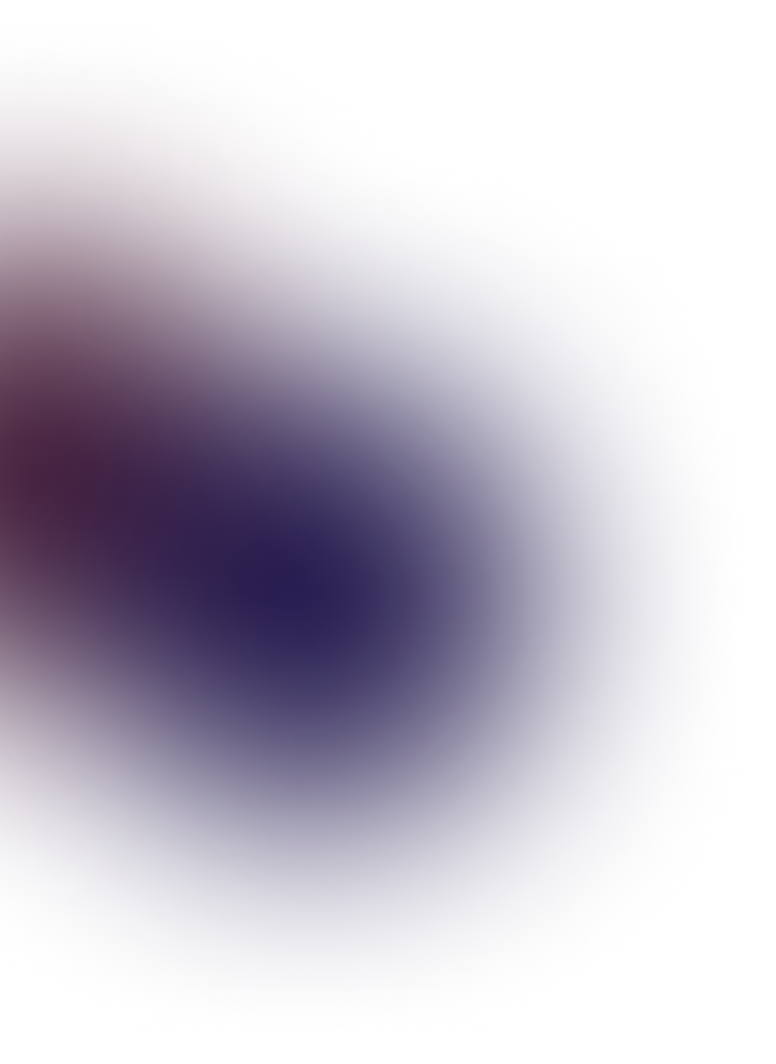
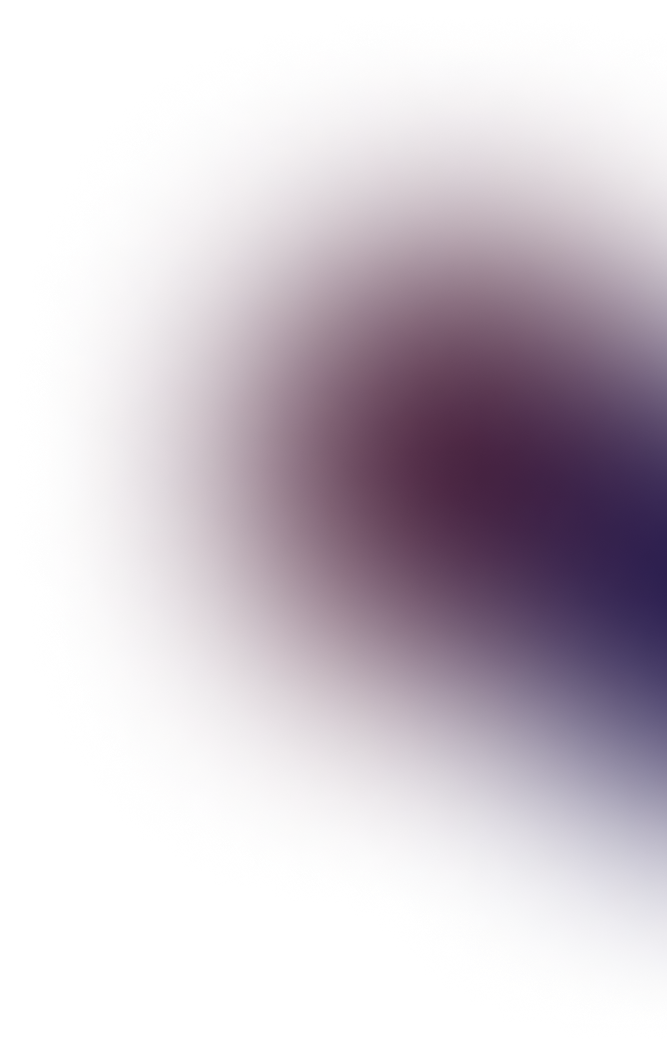
added footer and minor UI changes

diff --git a/src/components/NavBar.js b/src/components/NavBar.js
@@ -4,7 +4,19 @@ import logo from '../assets/img/logo.png';
 import navIcon1 from '../assets/img/nav-icon1.svg';
 import navIcon2 from '../assets/img/nav-icon2.svg';
 import navIcon3 from '../assets/img/nav-icon3.svg';
+import resumePDF from '../assets/Yash-Waikar-Resume.pdf';
 
+const DrawOutlineButton = ({ children, className, ...rest }) => {
+  return (
+    <button {...rest} className={`draw-outline-button ${className}`}>
+      <span>{children}</span>
+      <span className="outline top"></span>
+      <span className="outline right"></span>
+      <span className="outline bottom"></span>
+      <span className="outline left"></span>
+    </button>
+  );
+};
 export const NavBar = () => {
   const [activeLink, setActiveLink] = useState('home');
   const [scrolled, setScrolled] = useState(false);
@@ -18,10 +30,7 @@ export const NavBar = () => {
       }
     };
 
-    // Add the scroll event listener properly
     window.addEventListener("scroll", onScroll);
-
-    // Clean up event listener on component unmount
     return () => window.removeEventListener("scroll", onScroll);
   }, []);
 
@@ -42,53 +51,56 @@ export const NavBar = () => {
 
         <Navbar.Collapse id="basic-navbar-nav">
           <Nav className="me-auto">
+
+            
             <Nav.Link
               href="#home"
               className={activeLink === 'home' ? 'active navbar-link' : 'navbar-link'}
-              onClick={() => onUpdateActiveLink('home')}
-            >
+              onClick={() => onUpdateActiveLink('home')} >
               Home
             </Nav.Link>
+
             <Nav.Link
               href="#skills"
               className={activeLink === 'skills' ? 'active navbar-link' : 'navbar-link'}
-              onClick={() => onUpdateActiveLink('skills')}
-            >
+              onClick={() => onUpdateActiveLink('skills')} >
               Skills
             </Nav.Link>
+
             <Nav.Link
               href="#projects"
               className={activeLink === 'projects' ? 'active navbar-link' : 'navbar-link'}
-              onClick={() => onUpdateActiveLink('projects')}
-            >
+              onClick={() => onUpdateActiveLink('projects')} >
               Projects
             </Nav.Link>
 
             <Nav.Link
               href="#experience"
-              className={activeLink === 'experience' ? 'active navbar-link' : 'navbar-link'}
-              onClick={() => onUpdateActiveLink('experience')}
-            >
+              className={activeLink === 'qualification' ? 'active navbar-link' : 'navbar-link'}
+              onClick={() => onUpdateActiveLink('experience')} >
               Experience
             </Nav.Link>
-        
-             <Nav.Link
-              href="/public/Yash-Waikar-Resume.pdf" 
-              target="_blank" 
-              className="navbar-link"
-            >
+            <Nav.Link
+              href={resumePDF}
+              target= "_blank"
+              //rel="noopener noreferrer"
+              className={activeLink === 'resume' ? 'active navbar-link' : 'navbar-link'}
+              onClick={() => onUpdateActiveLink('resume')} >
               Resume
             </Nav.Link>
+
+           
+           
           </Nav>
           <span className="navbar-text">
             <div className="social-icon">
               <a href="https://www.linkedin.com/in/yash-waikar-509866202/"><img src={navIcon1} alt="" /></a>
               <a href="https://github.com/yash-waikar"><img src={navIcon2} alt="" /></a>
-              <a href="#"><img src={navIcon3} alt="" /></a>
+              
             </div>
-            <button className="vvd" onClick={() => console.log('connect')}>
-              <span>Let's Connect</span>
-            </button>
+            <DrawOutlineButton  onClick={() => console.log('connect')}>
+            Contact Me
+            </DrawOutlineButton>
           </span>
         </Navbar.Collapse>
       </Container>

diff --git a/src/components/Banner.js b/src/components/Banner.js
@@ -13,7 +13,7 @@ export const Banner = () => {
   const [text, setText] = useState('');
   const [delta, setDelta] = useState(300 - Math.random() * 100);
   const [index, setIndex] = useState(1);
-  const toRotate = [ "Software Engineer" ];
+  const toRotate = [ "Software Engineer", "CS Student" ];
   const period = 2000;
 
   useEffect(() => {
@@ -70,10 +70,19 @@ export const Banner = () => {
               {({ isVisible }) =>
               <div className={isVisible ? "animate__animated animate__fadeIn" : ""}>
             
-                <h1>{'Hi! I am Yash Waikar'} <span className="txt-rotate" dataPeriod="1000" data-rotate='[ "Software Engineer", "Cloud Engineer", "Musician" ]'><span className="wrap">{text}</span></span></h1>
-                  <p>Upcoming graduate from George Mason University studying Computer Science. I am passionate about Front-End Development and Frameworks and currently intrested in learning about cloud computing. I am also make music on the side, listen <a href = "https://linktr.ee/yashwaikar"target="_blank" rel="noopener noreferrer">here</a> as you scroll.</p>
-                  <button onClick={() => console.log('connect')}>Let’s Connect <ArrowRightCircle size={25} /></button>
-                   
+                <h1>{'Hey! I am Yash Waikar. A'} <span className="txt-rotate" dataPeriod="1000" data-rotate='[ "Software Engineer" ]'><span className="wrap">{text}</span></span></h1>
+                  <p>Upcoming graduate from George Mason University studying Computer Science. I am passionate about Front-End Development and Frameworks and currently intrested in learning about cloud computing.</p>
+                  <p> I also write and make indie music on the side, listen as you scroll!</p>
+                  <iframe
+                  src="https://open.spotify.com/embed/track/369Q8J2tgFH3GCFFneH8CK?utm_source=generator&theme=0"
+                  style={{ borderRadius: "12px", width: "100%", height: "300px", border: "none" }}
+                  frameBorder="0"
+                  allow="autoplay; clipboard-write; encrypted-media; fullscreen; picture-in-picture"
+                  allowFullScreen
+                    loading="lazy"
+                  ></iframe>
+                  
+                 
               </div>}
             </TrackVisibility>
           </Col>

diff --git a/src/components/Qualification.js b/src/components/Qualification.js
@@ -25,7 +25,7 @@ const DrawOutlineButton = ({ children, className, ...rest }) => {
 export const Qualification = () => {
   const [activeTab, setActiveTab] = useState("education");
   return (
-    <div className="qualification">
+    <div className="qualification" id = "experience">
       {/* Tab Navigation */}
       <div className="tab-buttons">
         <DrawOutlineButton
@@ -42,7 +42,7 @@ export const Qualification = () => {
         </DrawOutlineButton>
       </div>
 
-      {/* Render the selected timeline based on the active tab */}
+     
       {activeTab === "education" && (
         <div className="experience">
           <VerticalTimeline lineColor="#3e497a">
@@ -58,7 +58,7 @@ export const Qualification = () => {
                 George Mason Univeristy
               </h3>
               <h2 className="vertical-timeline-element-subtitle">
-                Bachelors in Computer Science
+                B.S in Computer Science
               </h2> <p> Relevant Coursework: Algorithms, Operating Systems, Data Structures, Object Formal Methods, 
 Computer Systems, Database Concepts, Object-Oriented Programming, Web App Development
 </p>
@@ -76,7 +76,7 @@ Computer Systems, Database Concepts, Object-Oriented Programming, Web App Develo
                 NOVA Community College
               </h3>
               <h2 className="vertical-timeline-element-subtitle">
-                Associates Degree in Computer Science
+                A.S in Computer Science
               </h2>
              
             </VerticalTimelineElement>

diff --git a/src/App.css b/src/App.css
@@ -306,14 +306,14 @@ nav.navbar .navbar-toggler[aria-expanded="true"] .navbar-toggler-icon {
   position: relative;
 }
 .skill-bx {
-  background: #151515;
-  border-radius: 64px;
+  background: #000000;
+  border-radius: 30px;
   text-align: center;
   padding: 60px 50px;
   margin-top: -60px;
 }
 .skill h2 {
-	font-size: 45px;
+	font-size: 45px; 
 	font-weight: 700;
 }
 .skill p {
@@ -351,13 +351,13 @@ nav.navbar .navbar-toggler[aria-expanded="true"] .navbar-toggler-icon {
   color: #303030;
 }
 
-/* Container holding the waterdrop grid */
+
 .relative-grid-center {
   position: relative;
   display: grid;
   place-content: center;
-  background-color: #1e293b; /* Replace bg-slate-900 */
-  padding: 3rem 2rem; /* Equivalent to px-8 py-12 in Tailwind */
+  background-color: #304c78; 
+  padding: 3rem 2rem; 
 }
 
 /* The dot grid layout */
@@ -621,7 +621,7 @@ nav.navbar .navbar-toggler[aria-expanded="true"] .navbar-toggler-icon {
 /* Positioning and animation of the outline */
 .draw-outline-button .outline {
   position: absolute;
-  background: #a9aae1;
+  background: #ffffff;
   transition: all 0.1s;
 }
 
@@ -678,7 +678,7 @@ nav.navbar .navbar-toggler[aria-expanded="true"] .navbar-toggler-icon {
 
 /* Active state for the button */
 .draw-outline-button.active {
-  background-color: #6366f1;
+  background-color: #0e1168;
   color: white;
 }
 /************ Footer Css ************/

diff --git a/src/components/Footer.js b/src/components/Footer.js
@@ -1,0 +1,26 @@
+import { Container, Row, Col } from "react-bootstrap";
+
+import logo from "../assets/img/logo.png";
+import navIcon1 from "../assets/img/nav-icon1.svg";
+import navIcon2 from "../assets/img/nav-icon2.svg";
+import navIcon3 from "../assets/img/nav-icon3.svg";
+
+export const Footer = () => {
+  return (
+    <footer className="footer">
+      <Container>
+        <Row className="align-items-right">
+          
+          <Col size={6} sm={6}>
+            <img src={logo} alt="Logo" />
+          </Col>
+          <Col size={6} sm={6} className="text-right text-sm-end">
+            
+            <p>Website created using React by Yash Waikar. </p>
+                <p>Copyright 2024. All Rights Reserved</p>
+          </Col>
+        </Row>
+      </Container>
+    </footer>
+  )
+}

diff --git a/src/components/Skills.js b/src/components/Skills.js
@@ -16,7 +16,7 @@ export const Skills = () => {
    const BubbleText = ({ text }) => {
         return (
          <h2 >
-            {"Technical~Skills".split("").map((child, idx) => (
+            {"Technical-Skills".split("").map((child, idx) => (
               <span className="hoverText" key={idx}>
                 {child}
               </span>
@@ -73,8 +73,6 @@ export const Skills = () => {
                                 <img src={react} alt="Image" />
                                 <h5>React.js & Node.js</h5>
                             </div>
-
-
                             <div className="item">
                                 <img src={meter1} alt="Image" />
                                 <h5>Test Automation</h5>

diff --git a/src/App.js b/src/App.js
@@ -6,18 +6,20 @@ import { Banner } from "./components/Banner";
 import { Skills } from "./components/Skills";
 import { Projects} from "./components/Projects"
 import { Qualification } from './components/Qualification';
+import { Footer } from './components/Footer';
 
 
 
 function App() {
   return(
   <div className = "App">
-    
+  
     <NavBar/>
     <Banner/>
     <Skills/>
     <Projects/>
     <Qualification/>
+    <Footer/>
   
   
     

diff --git a/public/index.html b/public/index.html
@@ -24,7 +24,7 @@
       work correctly both with client-side routing and a non-root public URL.
       Learn how to configure a non-root public URL by running `npm run build`.
     -->
-    <title>React App</title>
+    <title>Yash Waikar</title>
   </head>
   <body>
     <noscript>You need to enable JavaScript to run this app.</noscript>

diff --git a/src/components/Projects.js b/src/components/Projects.js
@@ -26,6 +26,7 @@ export const Projects = () => {
       title: "Personal Portofolio",
       description: "Designed and Developed this website using React, React-boot-strap, javascript, and css",
       imgUrl: projImg3,
+      url: "https://github.com/yash-waikar/personal-website"
     },
   
    

diff --git a/src/components/WaterDropGrid.js b/src/components/WaterDropGrid.js
@@ -3,7 +3,7 @@ import React from "react";
 
 
 const GRID_WIDTH = 20;
-const GRID_HEIGHT = 15;
+const GRID_HEIGHT = 22;
 
 export const WaterDropGrid = () => {
   const handleDotClick = (e) => {
